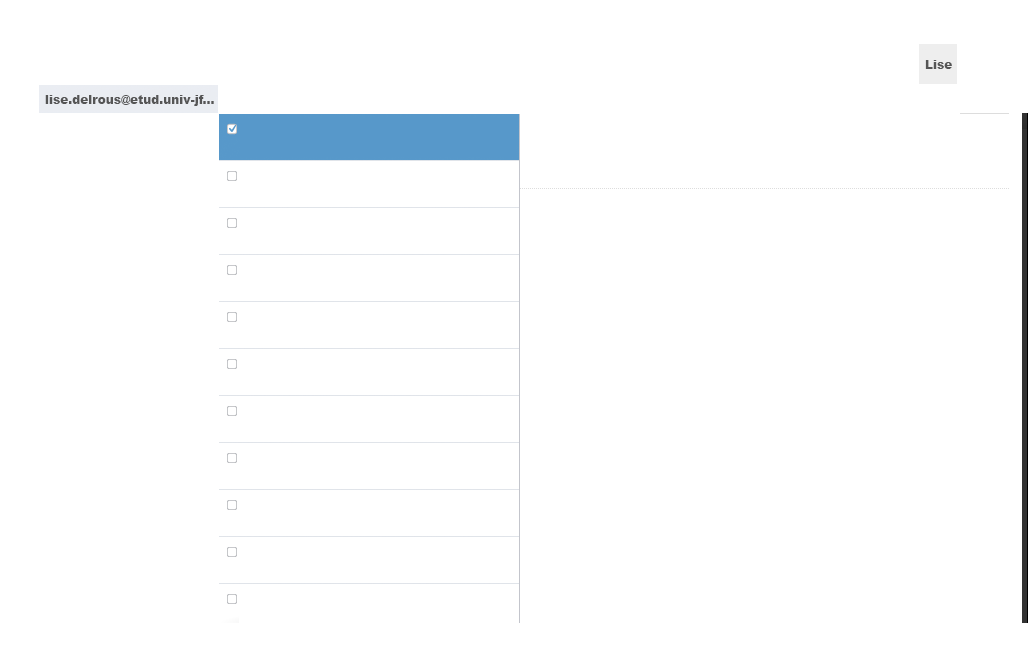
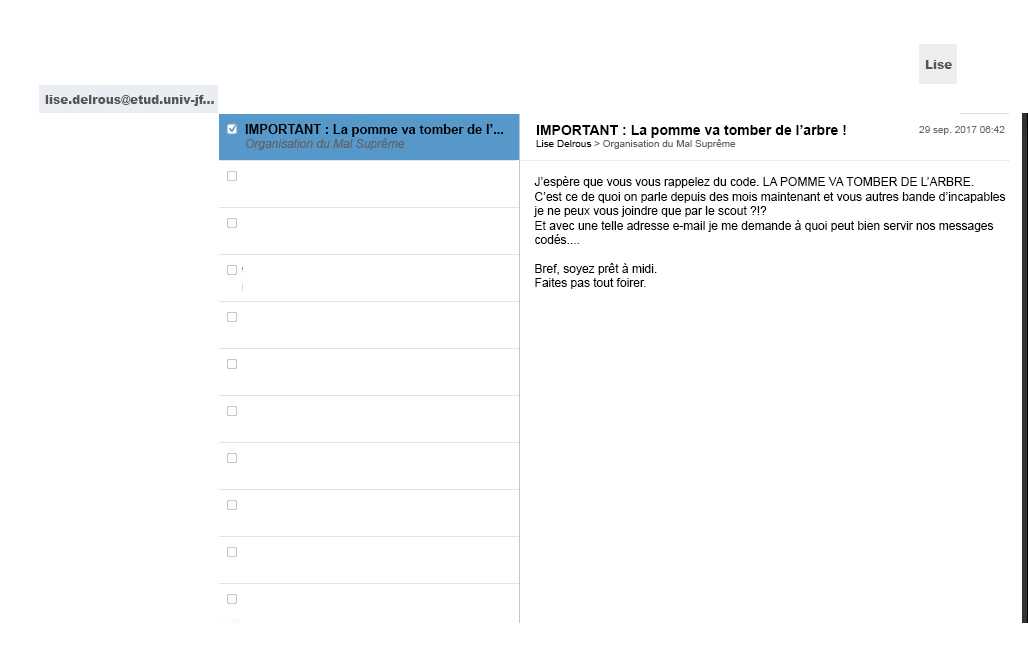
Ajout du mail de ldelrous et bonton de victoire

diff --git a/IdENTity/public_html/profil_vide/bureau_numerique_envoyes.html b/IdENTity/public_html/profil_vide/bureau_numerique_envoyes.html
@@ -13,7 +13,6 @@ and open the template in the editor.
     <body>
         <script src="menace.js">
         </script>
-       
         <img src="images/template.png" alt="template" style="display:block;position:absolute;width:1280px;height:960px;" usemap="#template">
         <map name="template">
             <!--topbar :-->
@@ -38,19 +37,19 @@ and open the template in the editor.
             <area shape="rect" coords="1101,424,1271,448" href="se_former.html" alt="moodle"/>
             <area shape="rect" coords="1101,451,1271,475" href="applications.html" alt="favoris"/>
         </map>
-         <img src="images/scout-envoyés.png" alt="template" style="display:block;position:absolute;left:35px;top:215px;width:1028px;height:661px;" usemap="#bureautmp">
-         <map name="bureautmp">
+        <img src="images/scout-envoyés.png" alt="template" style="display:block;position:absolute;left:35px;top:215px;width:1028px;height:661px;" usemap="#bureautmp">
+        <map name="bureautmp">
             <area shape="rect" coords="20,115,220,130" href="bureau_numerique.html" alt="reception"/>
             <area shape="rect" coords="20,135,220,150" href="bureau_numerique_envoyes.html" alt="envoyes"/>
             <area shape="rect" coords="20,155,220,170" href="bureau_numerique_corbeille.html" alt="corbeille"/>
-            <area shape="rect" coords="20,175,220,190" href="bureau_numerique_brouillons.html" alt="brouillons"/>
-             
-         </map>
-         <script>
-             sessionStorage.setItem("Page","Envoyes");
-         </script>
-         <script src="scriptgame.js">            
-         </script>
-         
+            <area shape="rect" coords="20,175,220,190" href="bureau_numerique_brouillons.html" alt="brouillons"/>     
+        </map>
+        <script src="videos.js">
+        </script>
+        <script>
+            sessionStorage.setItem("Page","Envoyes");
+        </script>
+        <script src="scriptgame.js">            
+        </script>
     </body>
 </html>

diff --git a/IdENTity/public_html/profil_vide/videos.js b/IdENTity/public_html/profil_vide/videos.js
@@ -23,10 +23,12 @@ if (nom==="ldelrous"){
     if (pagevisitee==="Accueil"){
         document.write('<div style="position:fixed;right:20px;bottom:20px"><video width="320" height="260" autoplay controls><source src="videos/menace.ogg" type="video/ogg"></video></div>');
     }
+    if (pagevisitee==="Envoyes"){
+        document.write('<div><input type="button" value="!" onclick="indice3(this)" style="position:absolute;top:335px;left:1070px;background-color:red;border-color:red"></div>');
+    }
 }
 
 function indice1(el){
-    console.log("C'est un indice, un indice COLOSSAL !");
     var vid1 = document.createElement("video");
     vid1.width = '320';
     vid1.height = '260';
@@ -40,7 +42,6 @@ function indice1(el){
 }
 
 function indice2(el){
-    console.log("C'est un indice, un indice COLOSSAL !");
     var vid2 = document.createElement("video");
     vid2.width = '320';
     vid2.height = '260';
@@ -51,4 +52,9 @@ function indice2(el){
     src.type = 'video/ogg';
     vid2.appendChild(src);
     document.getElementById('dis2').appendChild(vid2);
+}
+
+function indice3(el){
+    console.log("C'est un indice, un indice COLOSSAL !");
+    alert("Bien joué, hacker. Tu as trouvé le coupable et ramener la paix à l'INU Champollion. Tu peux être fier de toi !");
 }
